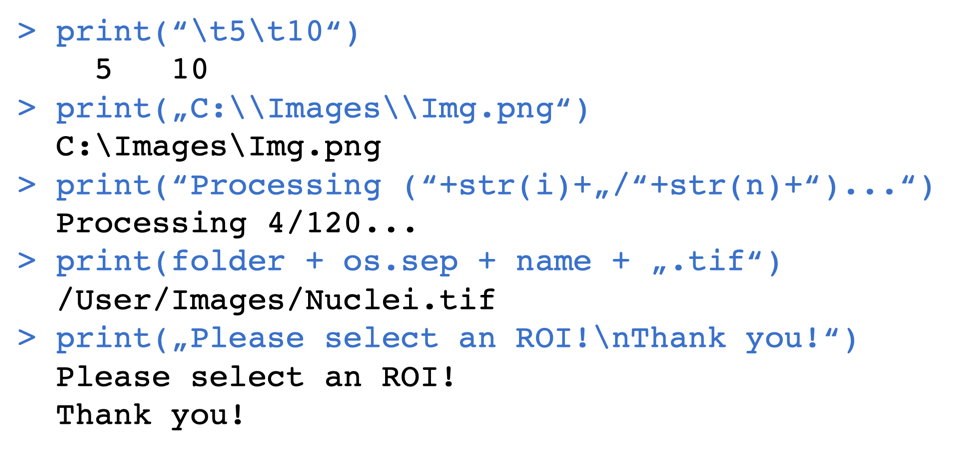
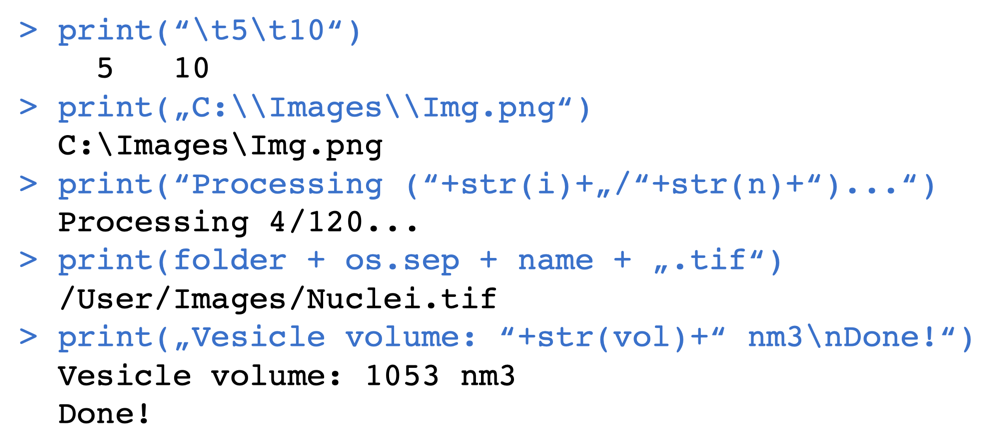
Improve scripting module

Changed region(s): [[0.0, 0.2068, 0.9907, 0.975], [0.0, 0.0295, 0.3715, 0.1773], [0.0929, 0.1182, 0.1238, 0.1773]]

diff --git a/_modules/string_concat.md b/_modules/string_concat.md
@@ -12,9 +12,13 @@ motivation: |
   Combing several strings into a a larger string is a prevalent operation in scripting. This is useful, e.g., to create file paths and create log messages. Such concatenation of strings is surprisingly error prone and it is thus important to learn it properly and be aware of all the pitfalls.
 
 concept_map: >
+  graph TD
+    S("Strings") --> L("Log/debug messages")
+    S --> F("File paths")
+    S --> O("Script output (tables)")
 
 figure: /figures/string_concat.png
-figure_legend: Examples of somewhat advanced string expressions (as it they may roughly look in some hypothetical scripting language).
+figure_legend: Examples of string expressions as they may appear in a typical bioimage analysis script (in some hypothetical scripting language).
 
 activity_preface: |
   - Open a script editor.
